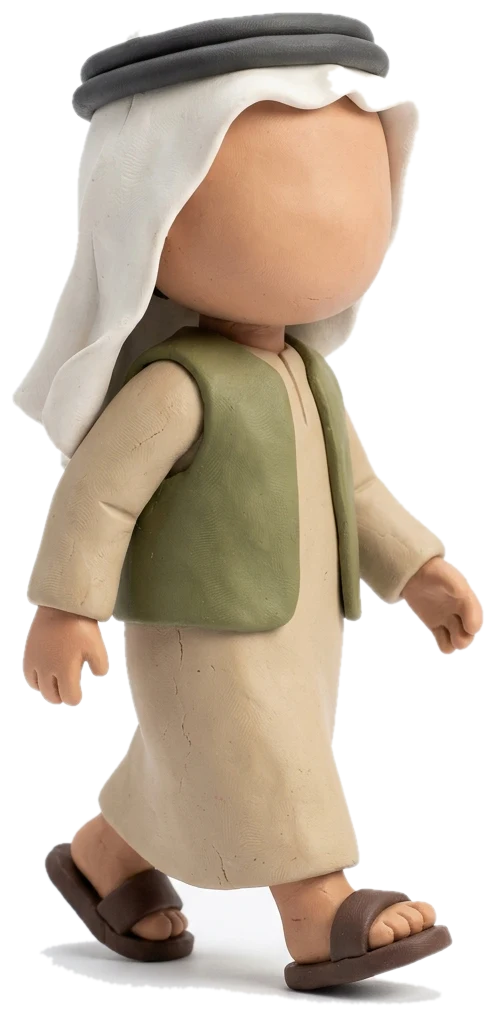
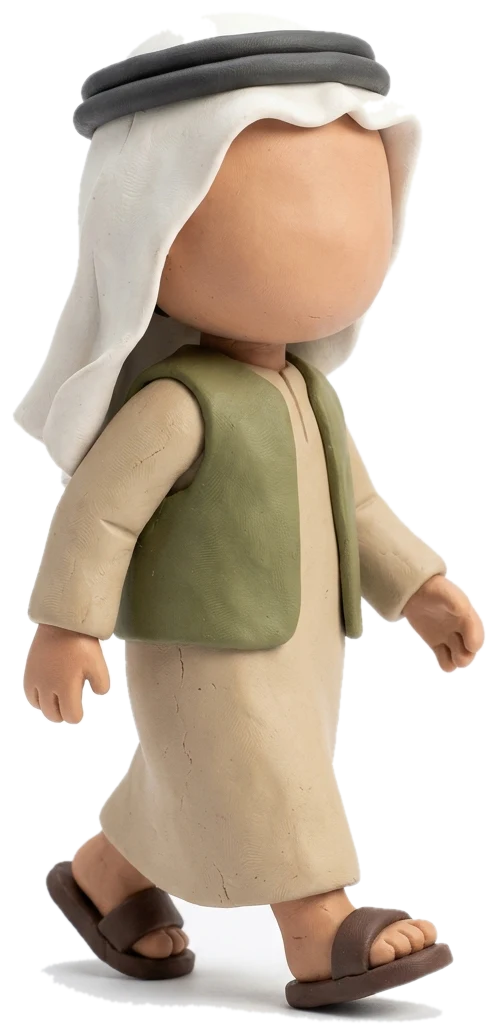
Aset clay: kepala k05_p01, k03_p04, t06_p02 tidak lagi terpotong
Kerudung/sorban krem-putih ikut terhapus saat buang latar (mirip latar studio putih). Untuk aset itu bagian atas
objek diambil dengan ambang ketat; bayangan lantai tetap dibuang.

diff --git a/aset/proses_aset.py b/aset/proses_aset.py
@@ -22,6 +22,9 @@ HASIL = os.path.join(ROOT, 'remotion', 'public_panjang', 'aset')   # public dir 
 POTONG = ('karakter', 'hewan', 'properti', 'elemen')
 TINGGI_MAKS = {'karakter': 1100, 'hewan': 900, 'properti': 700, 'elemen': 600}
 AMBANG = 20          # beda warna maksimal dari taksiran warna latar di titik itu
+# Aset yang kepalanya (kerudung/sorban krem-putih) ikut terhapus di ambang biasa: bagian ATAS objek (70% teratas, jadi
+# bayangan lantai tetap terbuang) diambil dengan ambang ketat ini.
+KEPALA_TERANG = {'k05_p01': 8, 'k03_p04': 8, 't06_p02': 8}
 
 
 def taksir_latar(a):
@@ -37,17 +40,27 @@ def taksir_latar(a):
     return sum(c * b for c, b in zip(warna, bobot)) / total
 
 
-def buang_latar(im):
+def _isi(a, latar_taksir, ambang):
+    calon = np.abs(a - latar_taksir).max(axis=2) < ambang
+    lab, _ = ndimage.label(calon)
+    sentuh_tepi = np.unique(np.concatenate([lab[0], lab[-1], lab[:, 0], lab[:, -1]]))
+    return ndimage.binary_fill_holes(~np.isin(lab, sentuh_tepi[sentuh_tepi > 0]))
+
+
+def buang_latar(im, ambang_atas=None):
     """Kembalikan RGBA. Latar = piksel yang warnanya dekat dengan taksiran warna latar dan tersambung ke tepi
     gambar; baju putih/krem aman karena dibandingkan dengan latar di sekitarnya, bukan sekadar 'terang'.
     Gumpalan kecil yang terpisah dari objek utama (bintik, sisa bayangan) ikut dibuang."""
     rgb = im.convert('RGB')
     a = np.asarray(rgb).astype(np.float32)
-    calon = np.abs(a - taksir_latar(a)).max(axis=2) < AMBANG
-    lab, _ = ndimage.label(calon)
-    sentuh_tepi = np.unique(np.concatenate([lab[0], lab[-1], lab[:, 0], lab[:, -1]]))
-    latar = np.isin(lab, sentuh_tepi[sentuh_tepi > 0])
-    isi = ndimage.binary_fill_holes(~latar)
+    tl = taksir_latar(a)
+    isi = _isi(a, tl, AMBANG)
+    if ambang_atas:
+        ketat = _isi(a, tl, ambang_atas)
+        baris = np.flatnonzero(isi.any(axis=1))
+        if len(baris):
+            batas = baris[0] + int(0.7 * (baris[-1] - baris[0]))
+            isi[:batas] |= ketat[:batas]
     # simpan objek utama + bagian lain yang cukup besar (mis. tiap orang di gambar kerumunan)
     lab, n = ndimage.label(isi)
     if n > 1:
@@ -81,7 +94,9 @@ def proses_potong(kat):
     for nm in sorted(os.listdir(asal)):
         if not nm.lower().endswith(('.jpg', '.jpeg', '.png', '.webp')):
             continue
-        im = kecilkan(potong_rapat(buang_latar(Image.open(os.path.join(asal, nm)))), TINGGI_MAKS[kat])
+        nama = os.path.splitext(nm)[0]
+        im = kecilkan(potong_rapat(buang_latar(Image.open(os.path.join(asal, nm)), KEPALA_TERANG.get(nama))),
+                      TINGGI_MAKS[kat])
         im.save(os.path.join(tujuan, os.path.splitext(nm)[0] + '.webp'), 'WEBP', quality=88, method=4)
         n += 1
     return n
